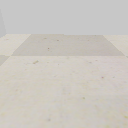
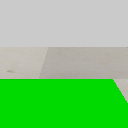
post crash code update

diff --git a/src/deepQNetwork_2.py b/src/deepQNetwork_2.py
@@ -198,8 +198,8 @@ def environment_step_task2(rob, action, green_ratio):
         done = False
         truncated = True
 
-    if X_input.max() >= 0.49 and green_ratio < 0.33:
-        reward = -1000
+    if X_input.max() >= 0.4 and green_ratio < 0.33:
+        reward = -500
         done = False
         truncated = True
 
@@ -239,6 +239,9 @@ def main():
 
     for episode in range(NUM_EPISODES):
         print(f"Starting simulation #{episode}")
+        # Set phone tilt to right value
+        rob.set_phone_tilt(107.7, 50)
+        # IMPORTANT! `image` returned by the simulator is BGR, not RGB
         if simulation:
             rob.play_simulation()
             X_input = np.log(np.array(rob.read_irs())) / -10
@@ -268,6 +271,7 @@ def main():
                 # Inefficient, takes photo multiple times instead of once
                 green_ratio, centerx, centery = get_image_values(rob)
                 observation, reward, terminated, truncated = environment_step_task2(rob, action.item(), green_ratio)
+                reward += -(t/steps_max)
                 reward = torch.tensor([reward])
                 reward_total += reward.item()
             else:
@@ -343,7 +347,7 @@ if __name__ == "__main__":
     # Maximum number of steps
     steps_max = 250
     # How often will the model be saved (in episode number)
-    checkpoint = 50
+    checkpoint = 10
     # Will actions taken be saved as well
     save_action = False
 
